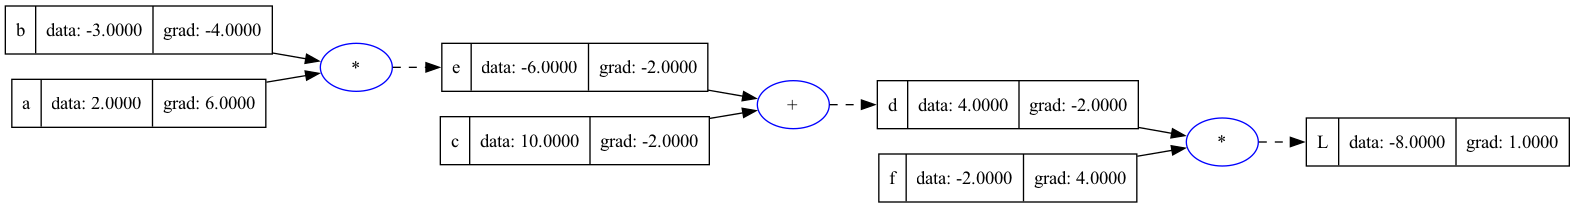
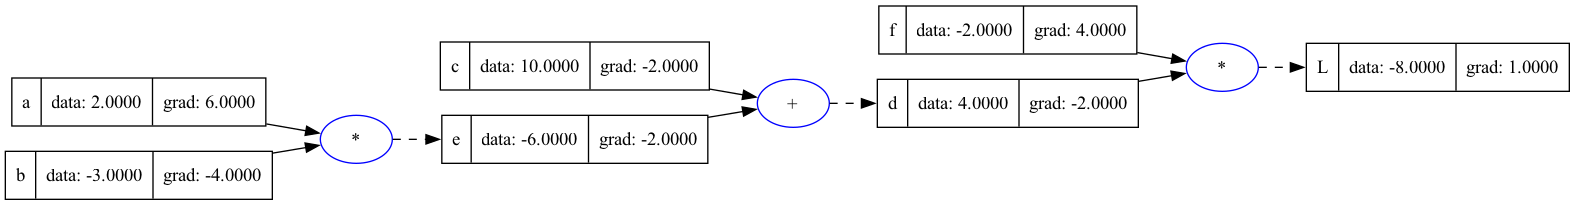
formatting

diff --git a/micrograd_from_scratch.py b/micrograd_from_scratch.py
@@ -40,12 +40,8 @@ d1 = a*b + c
 a += h 
 d2 = a*b + c
 
-# print("d1", d1)
-# print("d2", d2)
-# print("slope", (d2 - d1) / h)
 
-## defining a class for a value
-
+## defining a class Value
 class Value:
     ## Dunder methods (magic methods)
     ## Adding pointers to keep track of the children of the node
@@ -54,6 +50,7 @@ class Value:
     ## Backpropagation and calculating gradiants for all intermediate nodes
     ## Adding a gradient attribute to the Value class for backpropagation
     ## Calculating backpropagation manually to better understand the logic behind the library 
+    ## Understanding neural networks and how they work 
     def __init__(self, data, _children=(), _op='', label=''): 
         self.data = data 
         self.grad = 0.0
@@ -80,17 +77,28 @@ class Value:
         return out
 
 
+##Creating the first three nodes 
 a = Value(2.0, label='a')
 b = Value(-3.0, label='b')
 c = Value(10.0, label='c')
+
+
+## Creating the first operation (multiplication)
 e = a * b; e.label = "e"
+
+# Creating the second operation (addition)
 d = e + c; d.label = "d"
+
+# Creating the third operation (multiplication)
 f = Value(-2.0, label='f')
 L = d * f ; L.label = "L"
+
+# output of the graph 
 L
 
-
+## building the graph with the trace function 
 def trace(root):
+    ## creating a set of nodes and edges 
     nodes, edges = set(), set()
     def build(v):
         if v not in nodes:
@@ -132,20 +140,68 @@ def draw_dot(root):
     dot.render('computation_graph', format='png', cleanup=True)
     return dot
 
+
+# Calculating the gradients of L with respect to the nodes 
+
 # gradient of L with respect to L
 L.grad = 1
 
 #gradient of L with respect to d
 d.grad = f.data
-
 #gradient of L with respect to f
 f.grad = d.data
 
 
+## setting up the variables 
+# h = 0.0001
+# d = 4000
+# c = 1000
+# e = -6000
+
+
+#calculating the derivative of d with respect to L
+# d = c + e
+
+# result = d / c
+
+# Calculating the slope run over
+# ((c + h + e) - ((c + e)))/h
+# which gives us:
+# (c + h + e - c - e)/h
+# Variable cancellation
+# h/h
+
+# Therefore we result with the following local slope (local derivative)
+# d/c = 1
+
+# Applying the chain rule
+# L / c = L / d * d / c
+
+## gradient of c with respect to L
+c.grad = -2.000
+
+## gradient of e with respect to L
+e.grad = -2.000
+
+
+# Calculating the derivative of L with respect to a 
+# L / a = (L / e) * (e / a)
+
+e = a * b
+# e / a = 1
+
+# L / a = (L / e) * (e / a)
 
 
 
+## gradients of a with respect to L 
+a.grad = -2.0 * -3.0
 
+## gradients of b with respect to L 
+b.grad = -2.0 * 2.0
+
+
+dot = draw_dot(L)
 
 ## defining a function to calculate the derivative of a function
 # inline gradient calculation 
@@ -180,47 +236,9 @@ def lol():
 
 ##lol()
 
-## setting up the variables 
-# h = 0.0001
-# d = 4000
-# c = 1000
-# e = -6000
 
-# d = c + e
-# print(d)
-
-# result = d / c
-
-# Calculating the slope run over
-# ((c + h + e) - ((c + e)))/h
-# which gives us:
-# (c + h + e - c - e)/h
-# Variable cancellation
-# h/h
-
-# Therefore we result with the following local slope (local derivative)
-# d/c = 1
-
-# Applying the chain rule
-# L / c = L / d * d / c
-
-c.grad = -2.000
-e.grad = -2.000
-
-
-
-# Derivative of L with respect to a
-# L / a = (L / e) * (e / a)
-
-e = a * b
-# e / a = 1
-
-# L / a = (L / e) * (e / a)
-a.grad = -2.0 * -3.0
-b.grad = -2.0 * 2.0
-
+'''
 # Reflect the changes on the graph
-
 x1 = Value(2.0, label="x1")
 x2 = Value(0.0, label="x2")
 w1 = Value(-3.0, label="w1")
@@ -235,5 +253,4 @@ x2w2.label = "x2*w2"
 
 x1w1x2w2 = x1w1 + x2w2
 x1w1x2w2.label = "x1*w1 + x2*w2"
-
-dot = draw_dot(L)
+'''
